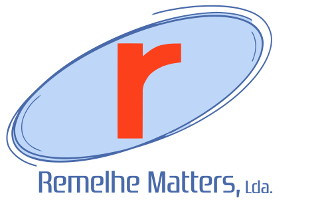
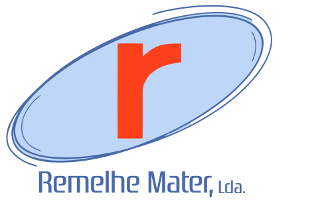
Corrected name

Changed region(s): [[0.5723, 0.8155, 0.8133, 0.9612]]

diff --git a/matter.html b/matter.html
@@ -7,7 +7,7 @@ License URL: http://creativecommons.org/licenses/by/3.0/
 <!DOCTYPE html>
 <html>
 <head>
-<title>J.P. Remelhe - Remelhe Matters</title>
+<title>J.P. Remelhe - Remelhe Mater</title>
 <link href="css/bootstrap.css" rel="stylesheet" type="text/css" media="all" />
 <link href="css/dataTables.booststrap.css" rel="stylesheet" type="text/css" media="all" />
 
@@ -294,7 +294,7 @@ jQuery(document).ready(function ($) {
       <div class="carousel-caption">
 
         <h2>Quem Somos</h2>
-			<p>A Remelhe Matters especializa-se na venda de todo o tipo de materiais de construção e drogaria. Para que nunca lhe falte nada.</p>
+			<p>A Remelhe Mater especializa-se na venda de todo o tipo de materiais de construção e drogaria. Para que nunca lhe falte nada.</p>
         <h2>As mais diversas marcas</h2>
         <div style="margin:20px">
                             <div class="row" style="overflow: auto">
